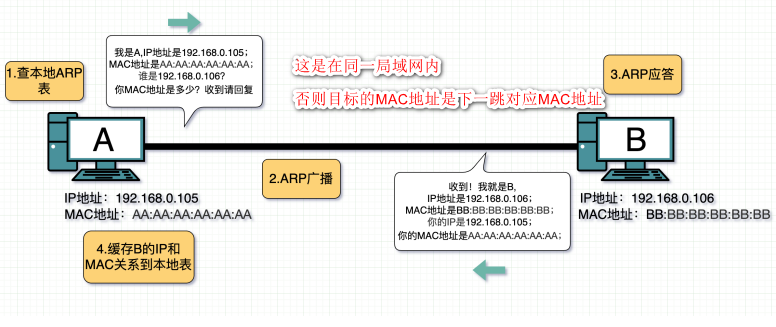
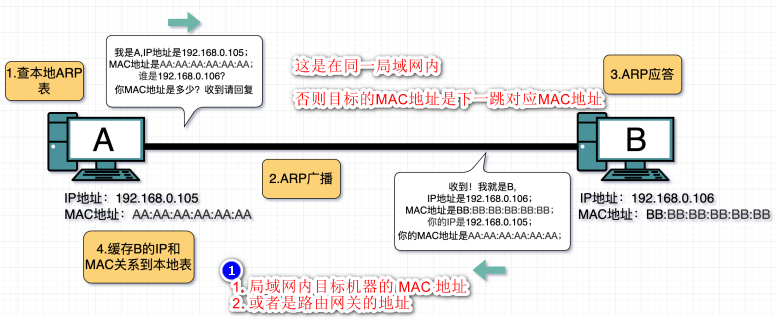
add concept of note

Changed region(s): [[0.2784, 0.7951, 0.6186, 0.9786]]

diff --git a/v2/02.concepts.md b/v2/02.concepts.md
@@ -6,10 +6,21 @@
 
 2. arp: Address Resolution Protocal
 
-   - arp 是*同一局域网*内 ip 和网卡硬件地址的映射
+   - arp 是**同一局域网**内 ip 和网卡硬件地址的映射
 
      ![avatar](/static/image/common/http/dl-arp-flow.png)
      ![avatar](/static/image/common/http/dl-arp-flow2.png)
+
+   - arp 包含的 mac 地址只可能是局域网内的目标地址或者路由网关的 MAC{流向公网}
+   - arp 内的 IP 与 MAC 的映射在开机时是空的, 后续学习补充上来的
+   - 局域网 arp 建表过程:
+
+     1. A 查本地 ARP 表发现 B 的 IP 和 MAC 映射关系不存在
+     2. A 通过 ARP**⼴播**的形式向局域⽹发出消息, 询问某 IP 对应的 MAC 地址是多少
+        - ⽐如 A 此时知道 B 的 IP, 但不知 B 的 MAC, 就在**局域⽹**内发起**ARP ⼴播**询问局域⽹下**所有机器**, 哪个机器的 IP 与 B 的 IP ⼀致
+     3. B 收到这个 ARP 消息, 发现 A 要问的 IP 与⾃⼰的 IP ⼀致, 就会把⾃⼰的 MAC 地址作为应答返回给 A
+     4. 其他机器由于 IP 地址不符, 则忽略
+     5. 此时 A 就知道了 B 的 MAC 地址, 顺便把消息记录到本地 ARP 表⾥, **下次直接⽤表⾥的关系就⾏**， 不需要每次都去问
 
 3. uri: 统⼀资源标识符, URL 是 URI 的⼦集才对
 4. url: 统⼀资源定位符
@@ -18,7 +29,49 @@
 7. socket
 8. lan(Local Area Network): 局域网
 9. 路由器
-10. 集线器
-11. 交换机
-12. ⽹桥
-13. 光猫
+10. 集线器: 物理层
+
+    - 数据{输⼊的信号}复制到 N 个端⼝后, 对应转发到 N 台机器⾥
+
+    ![avatar](/static/image/common/http/concept-hub.png)
+
+11. 交换机: 数据链路层(二层) + `无MAC地址{不是目的地} + 有MAC地址映射表`
+
+    ![avatar](/static/image/common/http/network-s-rl.png)
+
+    - 集线器的广播不好: 机器多了广播数据量太大, 浪费⽹络资源
+    - 交换机作用: A 发消息给 B, 且不转发给 C
+    - 实现: `交换机内部维护了⼀张MAC地址表{学习}`
+    - **MAC 地址表**: `1号端口是交换机的端口`
+      1. A 发消息到交换机, 交换机发现是从其 1 号端口进来的
+      2. 则会在 MAC 地址表上, 记录 A 的 MAC 地址对应 1 号端口
+      3. 长时间不使用会被释放映射
+    - mac 表建立好之后:
+      1. A 发送消息给 B: 数据包会包含 B 的 MAC 地址作为目标 MAC 地址
+      2. 交换机从端 1 收到 A 发送的数据, 将目标 mac 地址提取, 与 MAC 地址表对比
+      3. 发现 B 的 MAC 地址正好在 2 号端口, 那么就把数据转发给 2 号端口
+    - 特例 2:
+      1. MAC 地址的目标标端口和这个包的源端口是同⼀个端口: 丢弃
+      2. mac 地址表里没有则广播
+
+    ![avatar](/static/image/common/http/concept-switch.png)
+
+12. ⽹桥:
+
+    - 可以理解为两个⽹线⼝的交换机{将两台电脑桥接在一起}
+    - 交换机则是多⽹线⼝的**⽹桥**, 可以把多台电脑给连(桥接)起来
+
+13. 路由器(三层交换机)
+
+    - 原因: 交换机只能在局域网内工作 + 不可能让交换机记住全网设备的 MAC 地址{不现实}
+    - 因此发明了路由器, 在网络层, 有 IP 的引入, 可以在网络间传输转发
+
+      ![avatar](/static/image/common/http/concept-router.png)
+
+14. IP(点分字节): `⽹络号+主机号`
+
+    ![avatar](/static/image/common/http/ip-byte.png)
+
+    - 路由表: 转发消息到对应的 IP(下一跳)`{什么样的消息该转发到什么端口}`
+
+15. 光猫

diff --git a/v2/01.network-layer.md b/v2/01.network-layer.md
@@ -53,8 +53,8 @@
    - 报文: 源和⽬的 MAC 地址
      ![avatar](/static/image/common/http/dl-message.png)
 
-9. 物理层
-
+9. 物理层: ⽐特流
+   - 从数据链路层到物理层, 数据会被转为 01 ⽐特流
 10. 应用: 交换机 & 路由器
 
     ![avatar](/static/image/common/http/network-s-rl.png)
